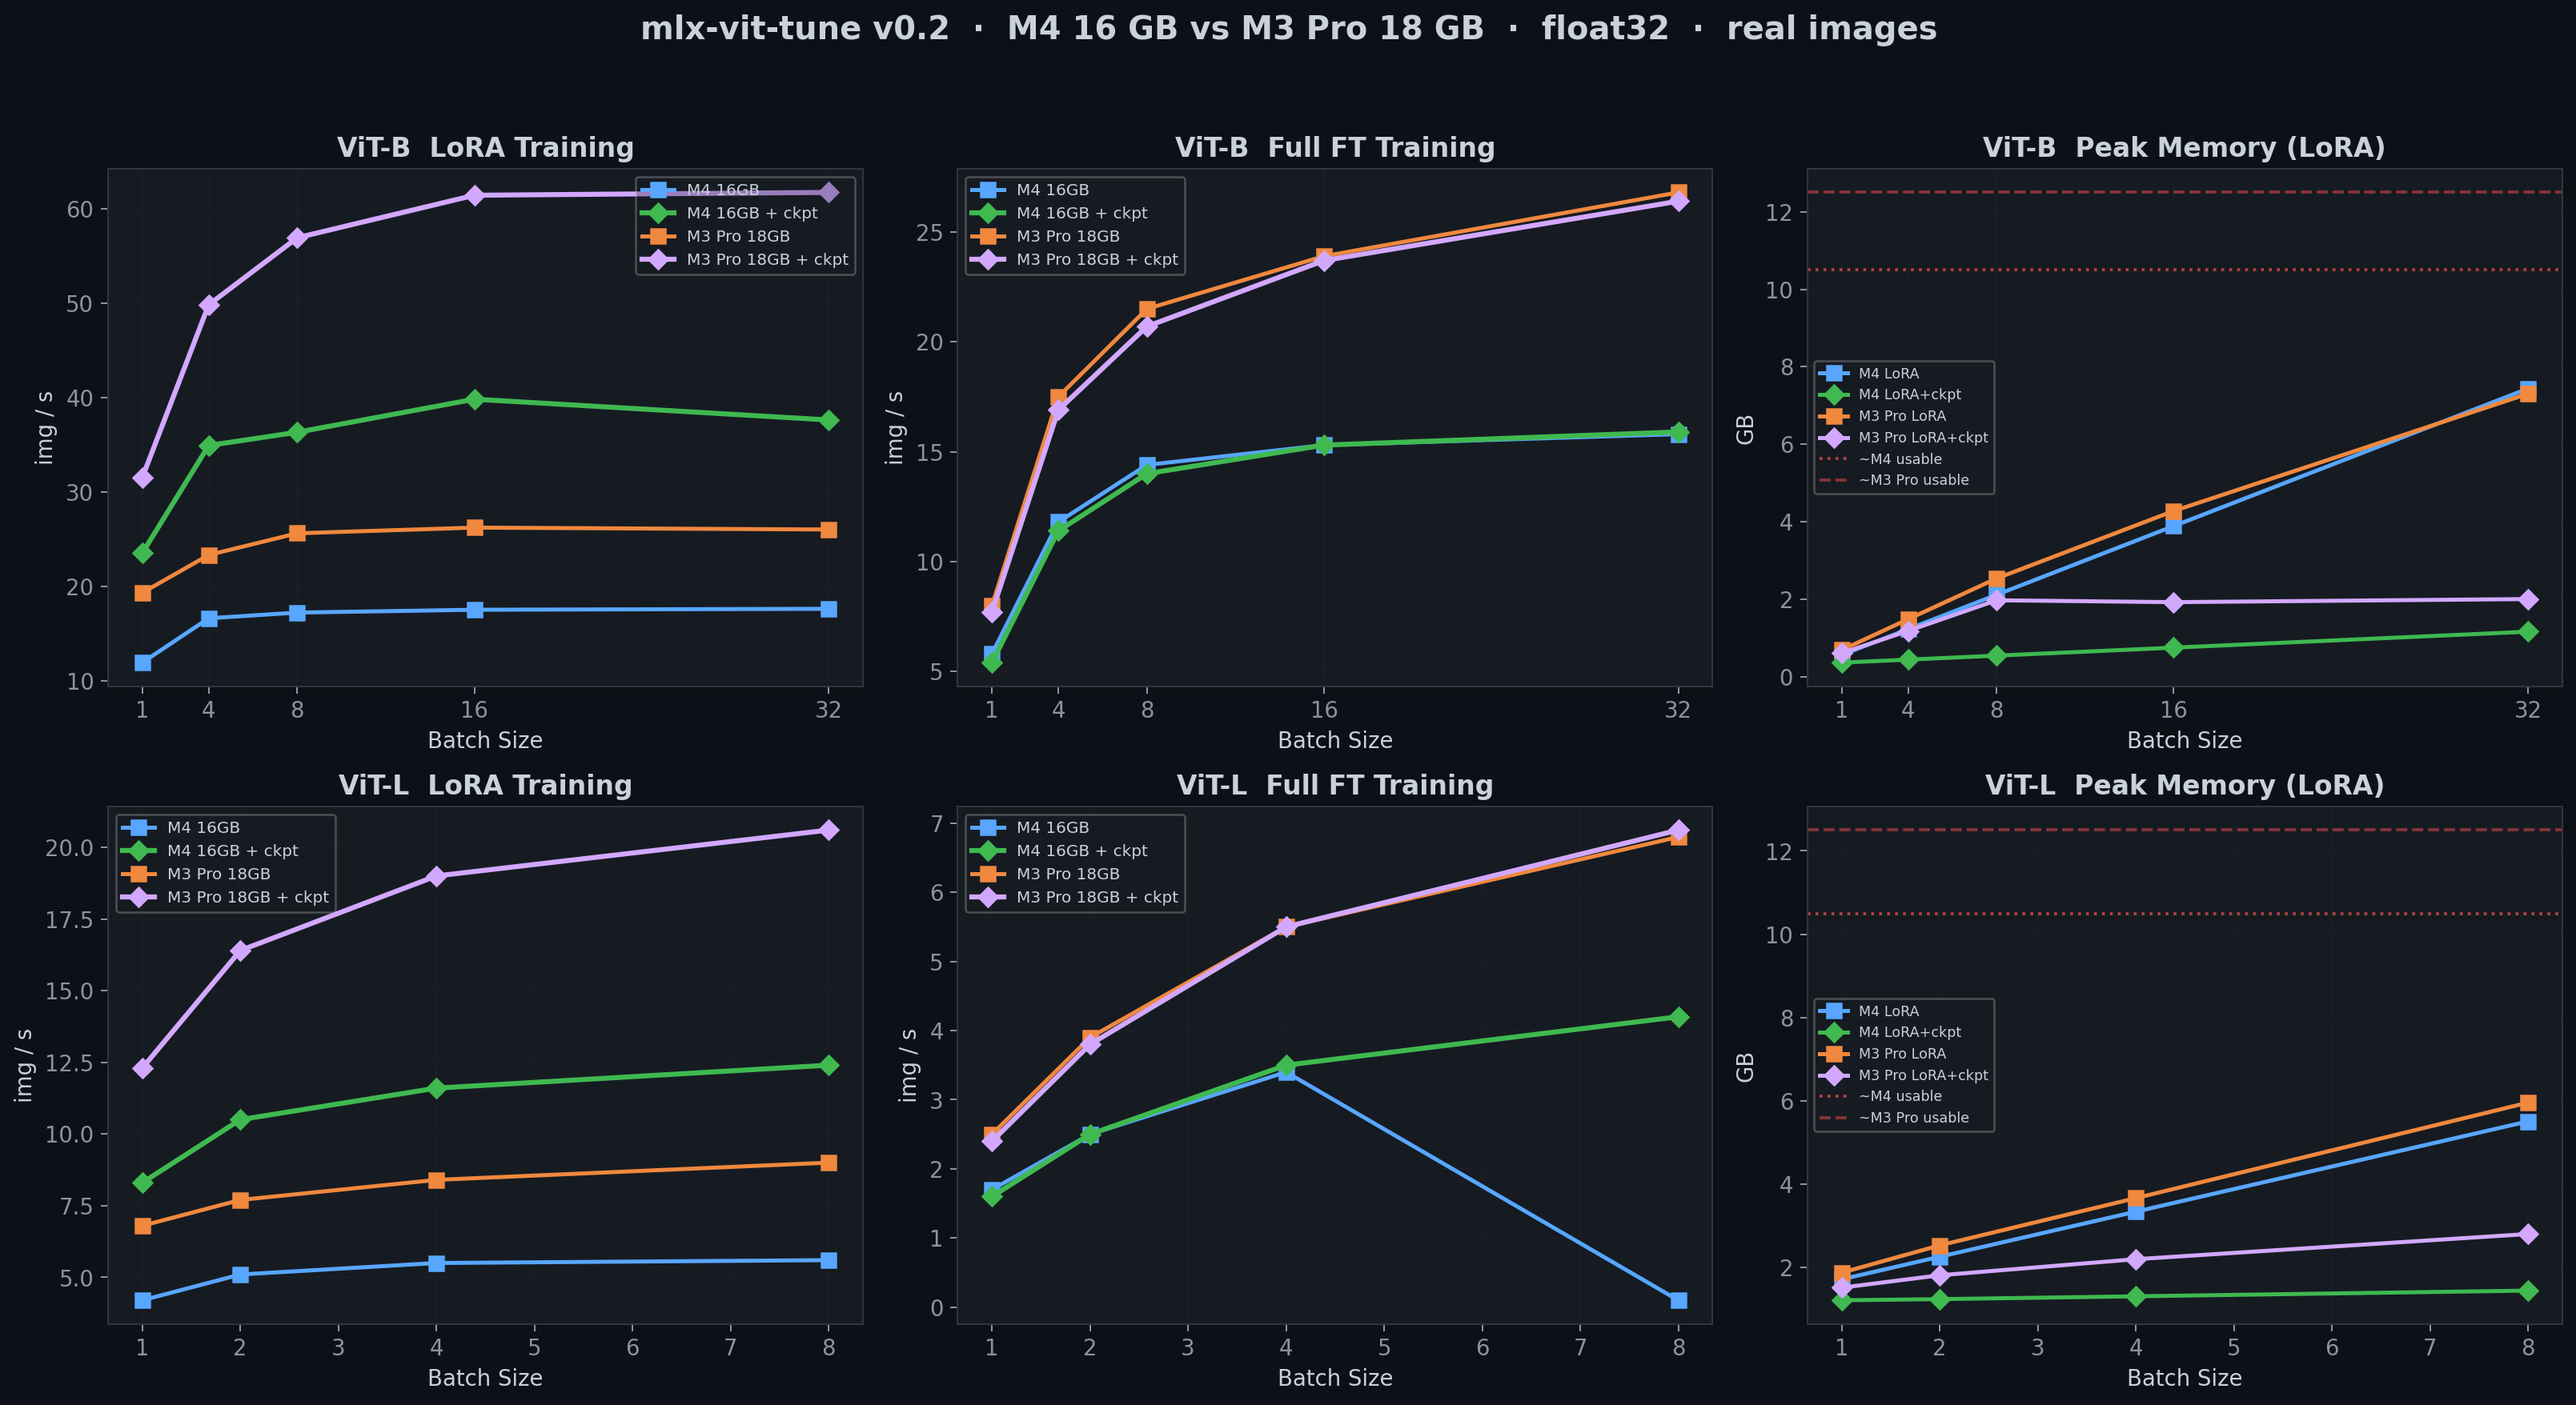
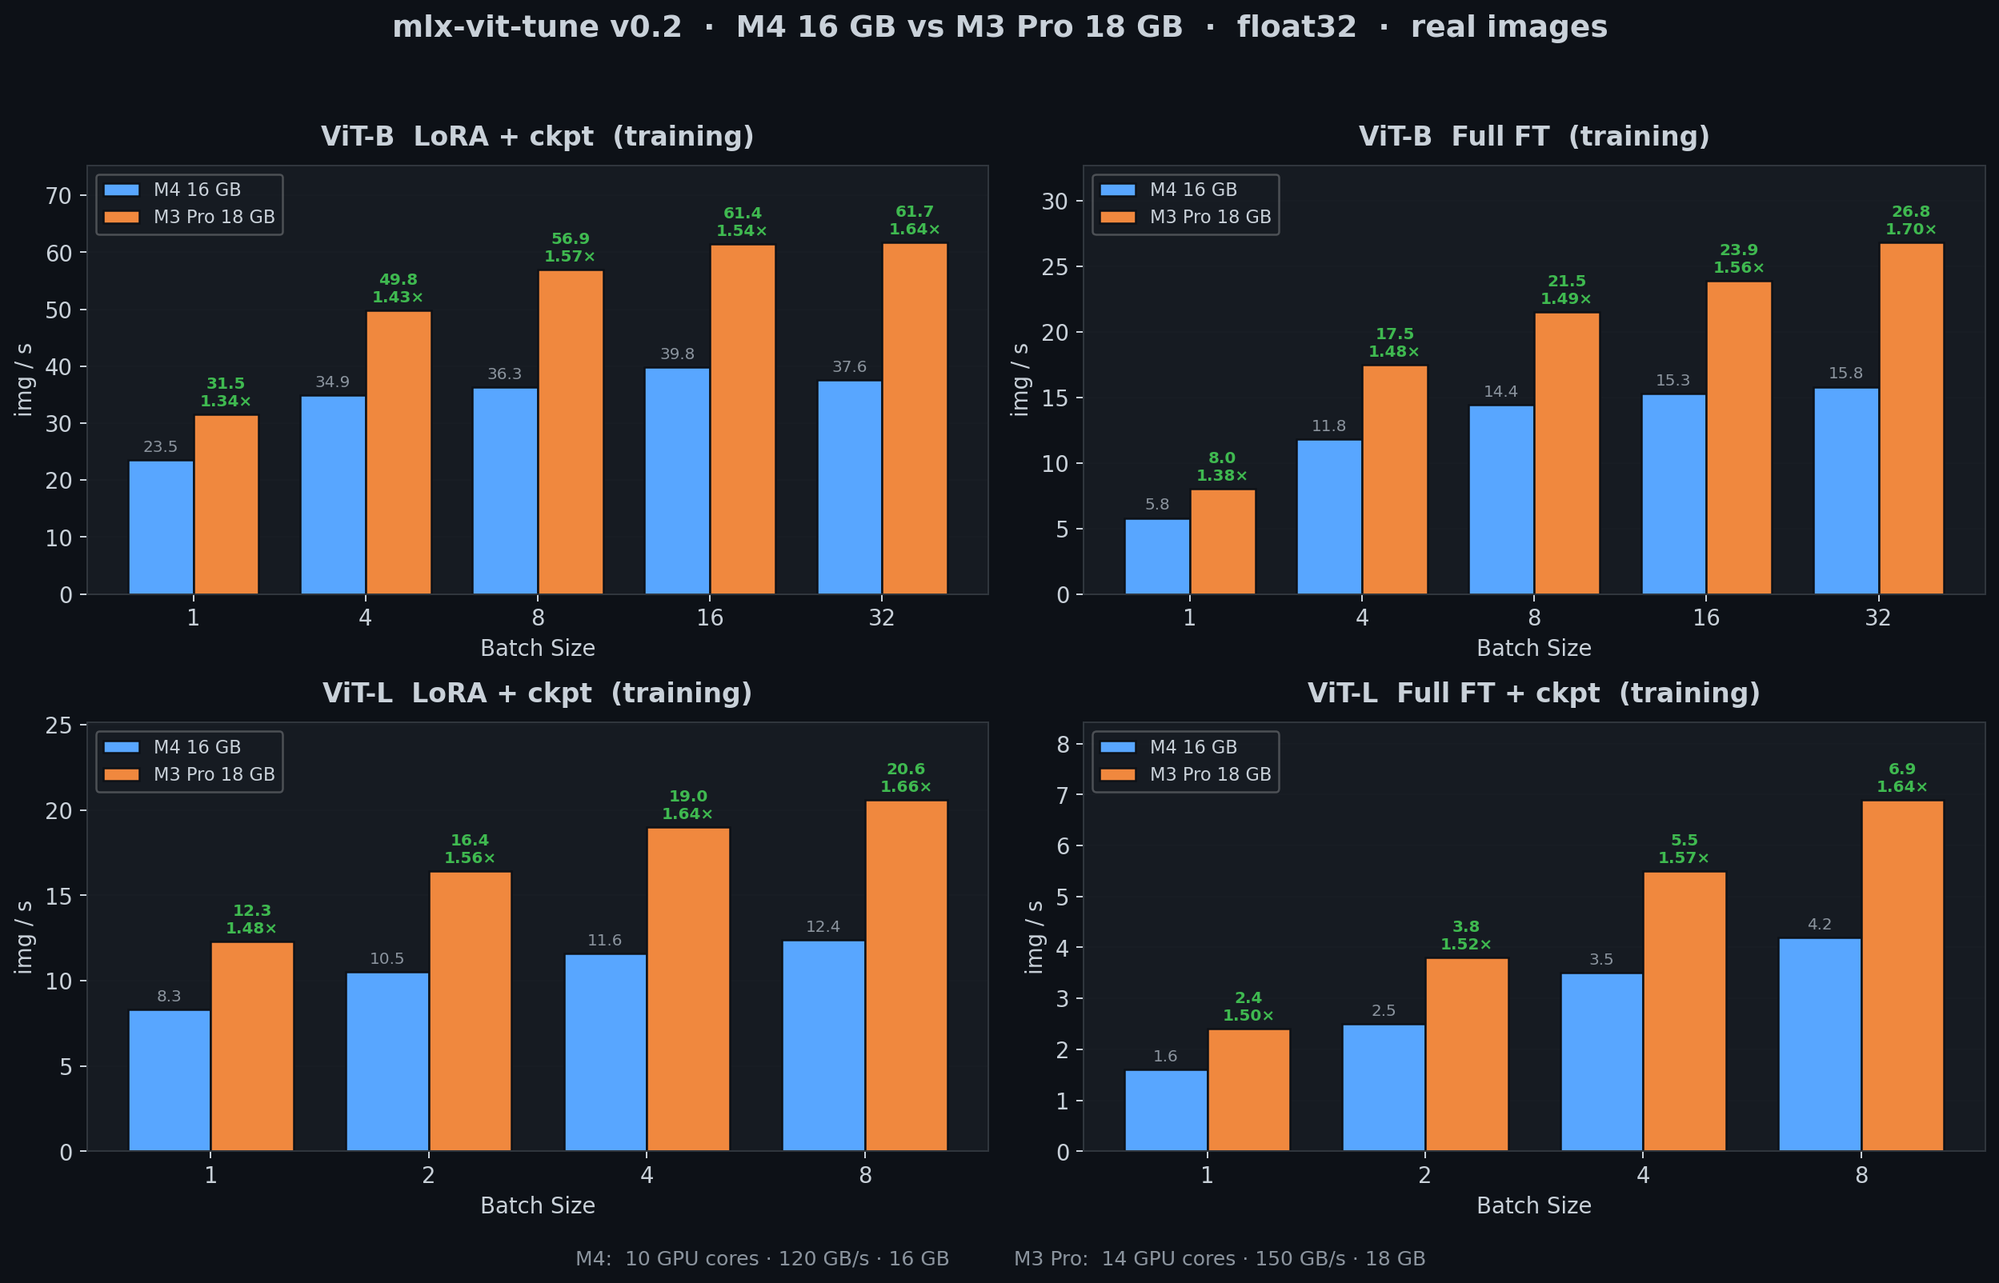
Switch M4 vs M3 Pro comparison to grouped bar chart
Line plots hide the per-config speedup. The new 2x2 layout draws grouped
bars (M4 blue, M3 Pro orange) per batch size for the four primary training
configurations (ViT-B LoRA+ckpt, ViT-B Full FT, ViT-L LoRA+ckpt, ViT-L
Full FT+ckpt). Each M3 Pro bar is labeled with its img/s and the ratio
vs M4 in green — the 1.3-1.7x speedup is now visible at a glance.

diff --git a/scripts/plot_m3pro.py b/scripts/plot_m3pro.py
@@ -1,14 +1,17 @@
-"""Multi-chip comparison plot: M4 16GB vs M3 Pro 18GB (v0.2 benchmark).
+"""Multi-chip comparison bar plot: M4 16GB vs M3 Pro 18GB (v0.2 benchmark).
 
 Reads `benchmark_results/benchmark_v02.json` (M4 baseline, already committed)
-and `benchmark_results/benchmark_m3pro.json` (this machine), renders a 2x3
-grid comparing train throughput and peak memory across batch sizes.
+and `benchmark_results/benchmark_m3pro.json` (this machine), renders a 2x2
+grid of grouped bar charts comparing training throughput across batch sizes
+for the four primary configurations. Speedup ratios (M3 Pro / M4) are printed
+on top of each M3 Pro bar.
 """
 
 import json
 import os
 
 import matplotlib.pyplot as plt
+import numpy as np
 
 REPO = "."  # run from repo root
 
@@ -39,148 +42,92 @@ plt.rcParams.update(
         "axes.edgecolor": "#30363d",
         "axes.labelcolor": "#c9d1d9",
         "text.color": "#c9d1d9",
-        "xtick.color": "#8b949e",
-        "ytick.color": "#8b949e",
+        "xtick.color": "#c9d1d9",
+        "ytick.color": "#c9d1d9",
         "grid.color": "#21262d",
         "font.family": "sans-serif",
         "font.size": 11,
     }
 )
 
-C = {
-    "m4": "#58a6ff",
-    "m4_ckpt": "#3fb950",
-    "m3": "#f0883e",
-    "m3_ckpt": "#d2a8ff",
-}
+C_M4 = "#58a6ff"
+C_M3 = "#f0883e"
 
-fig, axes = plt.subplots(2, 3, figsize=(18, 10))
+PANELS = [
+    ("vit_b", "lora",    True,  "ViT-B  LoRA + ckpt  (training)"),
+    ("vit_b", "full_ft", False, "ViT-B  Full FT  (training)"),
+    ("vit_l", "lora",    True,  "ViT-L  LoRA + ckpt  (training)"),
+    ("vit_l", "full_ft", True,  "ViT-L  Full FT + ckpt  (training)"),
+]
+
+fig, axes = plt.subplots(2, 2, figsize=(14, 9))
 fig.suptitle(
     "mlx-vit-tune v0.2  ·  M4 16 GB vs M3 Pro 18 GB  ·  float32  ·  real images",
-    fontsize=16,
+    fontsize=15,
     fontweight="bold",
-    y=0.97,
+    y=0.98,
 )
 
-# --- Row 0: ViT-B training throughput ---
-for col, (mode, title) in enumerate(
-    [
-        ("lora", "ViT-B  LoRA Training"),
-        ("full_ft", "ViT-B  Full FT Training"),
-    ]
-):
-    ax = axes[0, col]
-    for data, ckpt, color, label in [
-        (m4_raw, False, C["m4"], "M4 16GB"),
-        (m4_raw, True, C["m4_ckpt"], "M4 16GB + ckpt"),
-        (m3_raw, False, C["m3"], "M3 Pro 18GB"),
-        (m3_raw, True, C["m3_ckpt"], "M3 Pro 18GB + ckpt"),
-    ]:
-        d = pick(data, "vit_b", mode, ckpt)
-        if d:
-            ax.plot(
-                [r["batch_size"] for r in d],
-                [r["train_img_s"] for r in d],
-                "D-" if ckpt else "s-",
-                color=color,
-                label=label,
-                linewidth=2.5 if ckpt else 2,
-                markersize=7,
-            )
-    ax.set_title(title, fontweight="bold")
+for ax, (arch, mode, ckpt, title) in zip(axes.flat, PANELS):
+    m4 = pick(m4_raw, arch, mode, ckpt)
+    m3 = pick(m3_raw, arch, mode, ckpt)
+
+    # Align on the intersection of batch sizes so bars pair up even if one
+    # hardware ran an extra config.
+    m4_map = {r["batch_size"]: r["train_img_s"] for r in m4}
+    m3_map = {r["batch_size"]: r["train_img_s"] for r in m3}
+    batch_sizes = sorted(set(m4_map) & set(m3_map))
+
+    m4_vals = [m4_map[b] for b in batch_sizes]
+    m3_vals = [m3_map[b] for b in batch_sizes]
+
+    x = np.arange(len(batch_sizes))
+    width = 0.38
+
+    b_m4 = ax.bar(x - width / 2, m4_vals, width, color=C_M4,
+                  edgecolor="#0d1117", label="M4 16 GB")
+    b_m3 = ax.bar(x + width / 2, m3_vals, width, color=C_M3,
+                  edgecolor="#0d1117", label="M3 Pro 18 GB")
+
+    # Value labels on the M4 bars (img/s) and speedup ratio on the M3 Pro bars.
+    y_top = max(max(m4_vals), max(m3_vals)) * 1.22
+    ax.set_ylim(0, y_top)
+    for rect, v in zip(b_m4, m4_vals):
+        ax.text(rect.get_x() + rect.get_width() / 2,
+                rect.get_height() + y_top * 0.012,
+                f"{v:.1f}", ha="center", va="bottom",
+                fontsize=8, color="#8b949e")
+    for rect, m4v, m3v in zip(b_m3, m4_vals, m3_vals):
+        if m4v > 0:
+            speedup = m3v / m4v
+            label = f"{m3v:.1f}\n{speedup:.2f}×"
+            color = "#3fb950" if speedup >= 1 else "#f85149"
+        else:
+            label = f"{m3v:.1f}\n—"
+            color = "#c9d1d9"
+        ax.text(rect.get_x() + rect.get_width() / 2,
+                rect.get_height() + y_top * 0.012,
+                label, ha="center", va="bottom",
+                fontsize=8, color=color, fontweight="bold")
+
+    ax.set_title(title, fontweight="bold", pad=10)
     ax.set_xlabel("Batch Size")
     ax.set_ylabel("img / s")
-    ax.set_xticks([1, 4, 8, 16, 32])
-    ax.legend(fontsize=8, framealpha=0.3)
-    ax.grid(True, alpha=0.3)
+    ax.set_xticks(x)
+    ax.set_xticklabels(batch_sizes)
+    ax.grid(True, alpha=0.25, axis="y")
+    ax.set_axisbelow(True)
+    ax.legend(loc="upper left", framealpha=0.3, fontsize=9)
 
-# ViT-B Memory (LoRA)
-ax = axes[0, 2]
-for data, ckpt, color, label in [
-    (m4_raw, False, C["m4"], "M4 LoRA"),
-    (m4_raw, True, C["m4_ckpt"], "M4 LoRA+ckpt"),
-    (m3_raw, False, C["m3"], "M3 Pro LoRA"),
-    (m3_raw, True, C["m3_ckpt"], "M3 Pro LoRA+ckpt"),
-]:
-    d = pick(data, "vit_b", "lora", ckpt)
-    if d:
-        ax.plot(
-            [r["batch_size"] for r in d],
-            [r["peak_memory_mb"] / 1024 for r in d],
-            "D-" if ckpt else "s-",
-            color=color,
-            label=label,
-            linewidth=2,
-            markersize=7,
-        )
-ax.axhline(y=10.5, color="#f85149", ls=":", lw=1.5, alpha=0.7, label="~M4 usable")
-ax.axhline(y=12.5, color="#f85149", ls="--", lw=1.5, alpha=0.5, label="~M3 Pro usable")
-ax.set_title("ViT-B  Peak Memory (LoRA)", fontweight="bold")
-ax.set_xlabel("Batch Size")
-ax.set_ylabel("GB")
-ax.set_xticks([1, 4, 8, 16, 32])
-ax.legend(fontsize=7, framealpha=0.3)
-ax.grid(True, alpha=0.3)
+# Footer: summary of hardware spec delta
+fig.text(
+    0.5, 0.015,
+    "M4:  10 GPU cores · 120 GB/s · 16 GB          "
+    "M3 Pro:  14 GPU cores · 150 GB/s · 18 GB",
+    ha="center", fontsize=10, color="#8b949e",
+)
 
-# --- Row 1: ViT-L training throughput ---
-for col, (mode, title) in enumerate(
-    [
-        ("lora", "ViT-L  LoRA Training"),
-        ("full_ft", "ViT-L  Full FT Training"),
-    ]
-):
-    ax = axes[1, col]
-    for data, ckpt, color, label in [
-        (m4_raw, False, C["m4"], "M4 16GB"),
-        (m4_raw, True, C["m4_ckpt"], "M4 16GB + ckpt"),
-        (m3_raw, False, C["m3"], "M3 Pro 18GB"),
-        (m3_raw, True, C["m3_ckpt"], "M3 Pro 18GB + ckpt"),
-    ]:
-        d = pick(data, "vit_l", mode, ckpt)
-        if d:
-            ax.plot(
-                [r["batch_size"] for r in d],
-                [r["train_img_s"] for r in d],
-                "D-" if ckpt else "s-",
-                color=color,
-                label=label,
-                linewidth=2.5 if ckpt else 2,
-                markersize=7,
-            )
-    ax.set_title(title, fontweight="bold")
-    ax.set_xlabel("Batch Size")
-    ax.set_ylabel("img / s")
-    ax.legend(fontsize=8, framealpha=0.3)
-    ax.grid(True, alpha=0.3)
-
-# ViT-L Memory (LoRA)
-ax = axes[1, 2]
-for data, ckpt, color, label in [
-    (m4_raw, False, C["m4"], "M4 LoRA"),
-    (m4_raw, True, C["m4_ckpt"], "M4 LoRA+ckpt"),
-    (m3_raw, False, C["m3"], "M3 Pro LoRA"),
-    (m3_raw, True, C["m3_ckpt"], "M3 Pro LoRA+ckpt"),
-]:
-    d = pick(data, "vit_l", "lora", ckpt)
-    if d:
-        ax.plot(
-            [r["batch_size"] for r in d],
-            [r["peak_memory_mb"] / 1024 for r in d],
-            "D-" if ckpt else "s-",
-            color=color,
-            label=label,
-            linewidth=2,
-            markersize=7,
-        )
-ax.axhline(y=10.5, color="#f85149", ls=":", lw=1.5, alpha=0.7, label="~M4 usable")
-ax.axhline(y=12.5, color="#f85149", ls="--", lw=1.5, alpha=0.5, label="~M3 Pro usable")
-ax.set_title("ViT-L  Peak Memory (LoRA)", fontweight="bold")
-ax.set_xlabel("Batch Size")
-ax.set_ylabel("GB")
-ax.legend(fontsize=7, framealpha=0.3)
-ax.grid(True, alpha=0.3)
-
-plt.tight_layout(rect=[0, 0, 1, 0.94])
+plt.tight_layout(rect=[0, 0.035, 1, 0.955])
 out = f"{REPO}/benchmark_results/benchmark_comparison.png"
 os.makedirs(os.path.dirname(out), exist_ok=True)
 plt.savefig(out, dpi=180, bbox_inches="tight")
